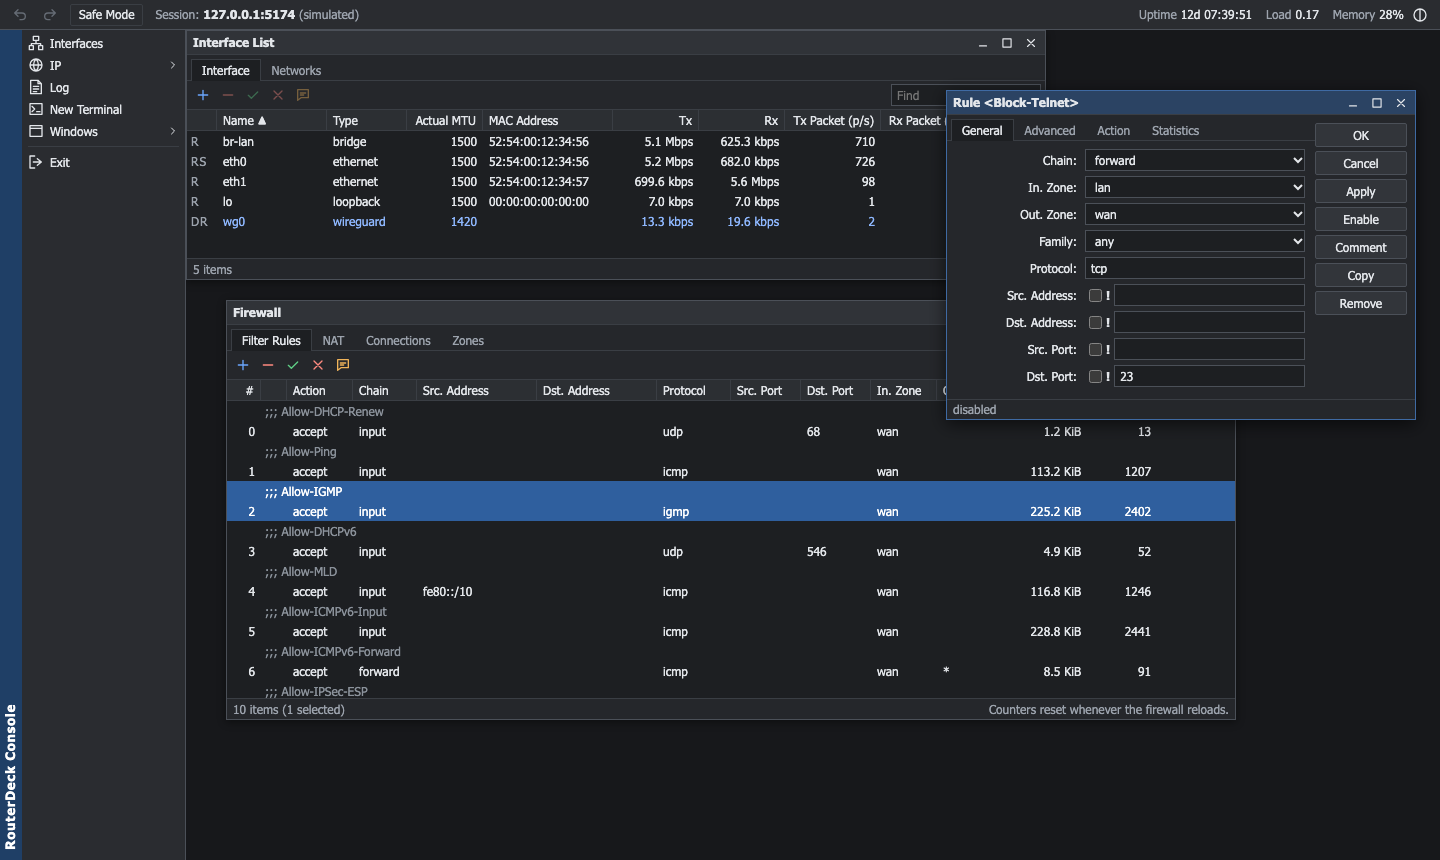
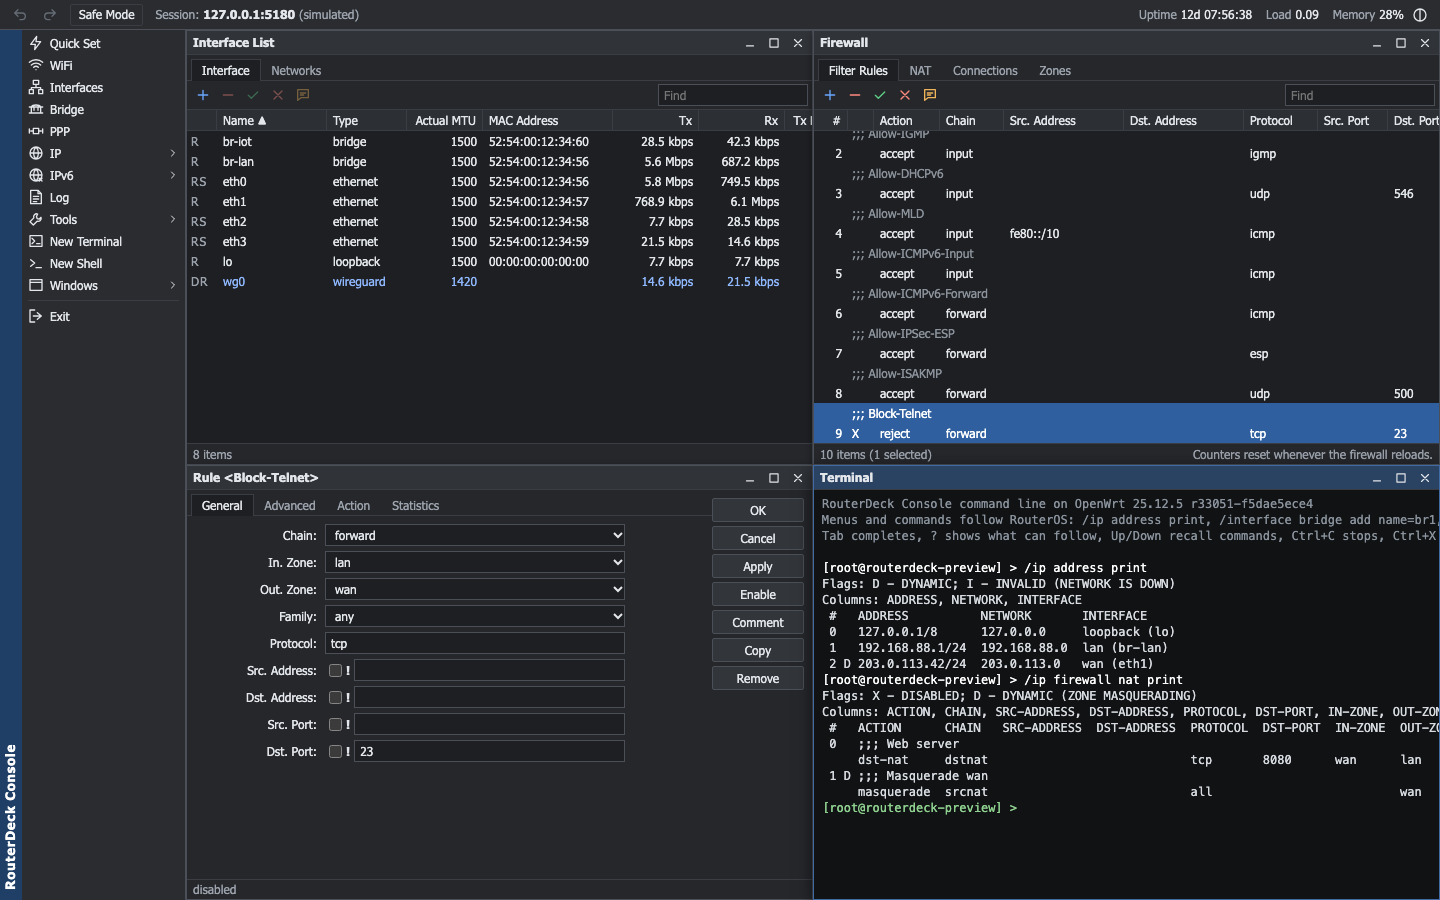
Validate the finished RouterDeck Console plan and document it
- Document Quick Set, WiFi, PPP, DNS, DHCPv6 bindings, Tools, Safe Mode
  takeover and the command line in docs/console.md (object table, command
  line reference, backend notes, limits), the architecture, both READMEs,
  the changelog and the Russian plan, which now lists what is left to check
  on real NanoPi hardware. New screenshots show the command line.
- A diagnostics job also ends when its directory disappears, i.e. when the
  package is removed and /var/run/routerdeck goes with it.
- Tests: the lifecycle test checks the diag runner is executable and that a
  running job ends with the package, and waits for procd to start the Safe
  Mode watchdog; the Quick Set LAN test works with 24.10's legacy
  ipaddr/netmask; the console login test follows its own session id, since
  sessions of earlier tests may expire during it.

Validated with SDK-built packages on OpenWrt 25.12.5 and 24.10.8: package
lifecycle, backend, editing, network, services, tools, Quick Set (with the
Safe Mode rollback after a LAN address change), CLI, shell and WiFi
(25.12 hwsim) VM tests, plus unit and browser tests.

diff --git a/docs/console.md b/docs/console.md
@@ -8,7 +8,7 @@ RouterDeck is not affiliated with MikroTik and uses none of its code or artwork.
 
 [Russian plan and status](console-plan.ru.md) · [Development](development.md) · [Architecture](architecture.md#routerdeck-console)
 
-![Interface list, firewall rules and a rule window in RouterDeck Console](screenshots/console-light.png)
+![Interface list, firewall rules, a rule window and the command line in RouterDeck Console](screenshots/console-light.png)
 
 Dark theme: [screenshot](screenshots/console-dark.png). Both show the simulated router of the development preview.
 
@@ -33,15 +33,30 @@ Dark theme: [screenshot](screenshots/console-dark.png). Both show the simulated 
   the change, reload the affected service and record it. There is no
   separate *Save & Apply* step.
 - **Undo / Redo** (toolbar, Ctrl+Z / Ctrl+Shift+Z) step through the last 100
-  changes. A change made outside the console (LuCI, the CLI) blocks undoing
+  changes. A change made outside the console (LuCI, `uci` in a shell) blocks undoing
   across it instead of overwriting it.
-- **Safe Mode** (toolbar). While it is on, the router undoes every change made
-  since you switched it on if this console stops answering for 120 seconds —
-  for example after a change cut your own connection. Clicking it again keeps
-  the changes; *Undo Safe Mode changes* restores the snapshot immediately.
-  After 100 changes Safe Mode ends and keeps them.
-- **Terminal.** *New Terminal* (Alt+T) embeds the router's shell through
-  [ttyd](https://github.com/tsl0922/ttyd), which asks for its own login.
+- **Safe Mode** (toolbar, or Ctrl+X in the command line). While it is on, the
+  router undoes every change made since you switched it on if this console
+  stops answering for 120 seconds — for example after a change cut your own
+  connection. Clicking it again keeps the changes; *Undo Safe Mode changes*
+  restores the snapshot immediately. After 100 changes Safe Mode ends and keeps
+  them. Another session (a new tab, or the console at a new address) sees who
+  holds Safe Mode and can *Take over Safe Mode* to keep protecting the changes,
+  or *Undo its changes* at once.
+- **Quick Set** (first menu item) puts the Internet connection (DHCP, static
+  or PPPoE) and NAT, the LAN address with its DHCP range, the WiFi name,
+  password and on/off, and the router identity on one form. Everything edited
+  is one change and one Undo step. A new LAN address moves the console: turn on
+  Safe Mode first, then open the new address and take Safe Mode over to keep
+  the change — otherwise it is undone after two minutes.
+- **Tools.** *Ping* lists every request, lost ones included, with loss and
+  min/avg/max; *Traceroute* probes every hop once per round, like mtr, and keeps
+  loss, last, average, best, worst and deviation per hop; *Torch* shows Tx/Rx
+  rates per connection on a chosen device, filtered by protocol, addresses and
+  port and grouped by the fields you collect.
+- **Terminal.** *New Terminal* (Alt+T) is a command line in the RouterOS style
+  (see [Command line](#command-line)). *New Shell* embeds the router's shell
+  through [ttyd](https://github.com/tsl0922/ttyd), which asks for its own login.
 
 ## Windows and OpenWrt objects
 
@@ -62,6 +77,16 @@ Dark theme: [screenshot](screenshots/console-dark.png). Both show the simulated 
 | IPv6 ▸ Routes | kernel IPv6 routes and `route6` sections | X, D, A, C, S | Source-specific routes show their source prefix |
 | IP ▸ DHCP Server ▸ DHCP | `dhcp` sections | X ignored | Address pool from the network's first address |
 | IP ▸ DHCP Server ▸ Leases | active DHCPv4 leases and `host` sections | X disabled, D dynamic | *Make Static* reserves a dynamic lease. A lease does not prove a client is online |
+| IP ▸ DHCP Server ▸ DHCPv6 Bindings | odhcpd's DHCPv6 leases and `host` sections with a DUID | X, D | *Make Static* stores the DUID and a host ID, so the client keeps its address suffix |
+| IP ▸ DNS ▸ Settings | the `dnsmasq` section | — | Servers, dynamic servers from the networks, remote requests, cache, local domain, rebind protection, query log |
+| IP ▸ DNS ▸ Static | `domain` (A/AAAA) and `cname` sections | X disabled | Answered by dnsmasq at once |
+| WiFi ▸ WiFi Interfaces | `wifi-iface` sections and runtime state (`luci-rpc getWirelessDevices`, iwinfo) | R running, X disabled | Access points and stations: SSID, radio, networks, security and passphrase, hidden SSID, client isolation |
+| WiFi ▸ Radios | `wifi-device` sections | X disabled | Band, channel, width, country, Tx power |
+| WiFi ▸ Registration | iwinfo association lists | — | Connected clients with signal, rates, uptime and DHCP host names |
+| PPP | `interface` sections with a PPP protocol | R connected, X disabled | PPPoE and other PPP clients: user, password, service, AC, peer DNS, default route, keepalive, MTU, zone |
+| Quick Set | `wan` and `lan` networks, their DHCP server and zone, LAN access points, `system` | — | One change for everything edited; see above |
+| Tools ▸ Ping, Traceroute | `ping` and `traceroute` jobs run by `/usr/libexec/routerdeck/diag` | — | Run outside rpcd; end when stopped, finished, unread for 15 seconds, or after an hour |
+| Tools ▸ Torch | `/proc/net/nf_conntrack` every second | — | Rates from byte counters of tracked connections, oriented to the chosen device by the routing table |
 | Log | logd (`log read`), `logread` fallback | — | Last 1000 lines, follows new entries |
 
 Comments on routes, networks, devices, DHCP servers and static leases are
@@ -79,9 +104,49 @@ stored as `option comment`, which netifd and dnsmasq ignore.
 | Arrows, Shift+arrows, Ctrl+A | Move and extend the selection |
 | Esc, F4 | Close the window |
 | F6 / Shift+F6 | Next / previous window |
-| Alt+T | New terminal |
+| Alt+T | New terminal (command line) |
 | Ctrl+Z / Ctrl+Shift+Z | Undo / redo |
 | Window title + arrows / Shift+arrows | Move / resize the window |
+
+## Command line
+
+*New Terminal* opens a command line that follows RouterOS: menus, then a
+command, then `name=value` properties. It works on the same objects as the
+windows, so every command is one change with one Undo step, and the property
+names come from the form labels (*Src. Address* is `src-address`).
+
+```
+[root@OpenWrt] > /ip firewall filter print where protocol=udp
+[root@OpenWrt] > /ip firewall filter add chain=input in-zone=wan protocol=tcp dst-port=8443 action=accept comment=web
+[root@OpenWrt] > /ip address
+[root@OpenWrt] /ip/address> add address=10.9.0.1/24 interface=lan
+[root@OpenWrt] /ip/address> /interface bridge vlan print detail
+[root@OpenWrt] > /ip dhcp-server lease make-static [find host-name=nas]
+[root@OpenWrt] > /ping 192.0.2.1 count=4
+[root@OpenWrt] > /export
+```
+
+- Menus: `/interface` (`bridge`, `bridge port`, `bridge vlan`, `network`,
+  `pppoe-client`, `wifi`, `wifi radio`, `wifi registration-table`), `/ip`
+  (`address`, `route`, `firewall filter|nat|connection|zone`, `dhcp-server`,
+  `dhcp-server lease`, `dns`, `dns static`), `/ipv6` (`address`, `route`,
+  `dhcp-server binding`), `/log`, `/system` (`identity`, `resource`,
+  `history`) and `/tool` (`traceroute`, `torch`). `/ip address` and
+  `/ip/address` are the same; `..` goes up, `/` to the top; any unique
+  abbreviation works (`/ip fi f pr`).
+- Commands: `print` (`detail`, `count-only`, `where name=value`, `!=`, `~regex`,
+  `disabled`, `!dynamic`), `find`, `add`, `set`, `remove`, `enable`, `disable`,
+  `comment` and object tools such as `make-static`. Items are named by the
+  number from the last `print` (a filtered print keeps the full numbers), by
+  name, or with `[find ...]`. `comment=` and `disabled=` work with `add` and
+  `set`.
+- `export` prints a menu and everything below it as commands; passwords and
+  keys appear only with `export show-sensitive`.
+- `/ping` and `/tool traceroute` (`count`, `size`, `interval`, `max-hops`,
+  `protocol`) stream results until done or Ctrl+C. `/undo`, `/redo`, `/quit`.
+- Tab completes menus, commands, properties and their values; `?` lists what
+  can follow. Up/Down recall earlier commands (kept in this browser), Ctrl+L
+  clears, Ctrl+X toggles Safe Mode, and the prompt shows `<SAFE>` while it is on.
 
 ## Installation
 
@@ -96,10 +161,10 @@ opkg install /tmp/routerdeck-console_0.1.0-r1_all.ipk
 ```
 
 Open `http://<router>/routerdeck/` and log in with a router account (root by
-default). The package depends on rpcd, its ucode and luci-rpc modules, the
-ucode fs/ubus/uci modules, uhttpd with `/ubus`, and firewall4; standard
-OpenWrt images with LuCI already have all of them. For the terminal, install
-ttyd (`apk add ttyd` or `opkg install ttyd`).
+default). The package depends on rpcd, its ucode, luci-rpc and iwinfo modules,
+the ucode fs/ubus/uci modules, uhttpd with `/ubus`, and firewall4; standard
+OpenWrt images with LuCI already have all of them. For *New Shell*, install
+ttyd (`apk add ttyd` or `opkg install ttyd`); PPPoE needs `ppp-mod-pppoe`.
 
 Removing the package (`apk del routerdeck-console` / `opkg remove
 routerdeck-console`) stops the Safe Mode watchdog, deletes the runtime state
@@ -108,31 +173,38 @@ in `/var/run/routerdeck` and leaves `/etc/config` as it is.
 ## How changes are made
 
 Every action is one call to the `routerdeck` rpcd object (`apply`, `undo`,
-`redo`, `safemode`). The plugin:
+`redo`, `safemode`). The plugin changes only `network`, `firewall`, `dhcp`,
+`wireless` and `system`, and:
 
 1. refuses to run while LuCI is waiting to confirm an *apply with rollback*,
    so the two rollbacks cannot overwrite each other;
 2. stages the operations in a private UCI delta directory and commits only
-   them, never other sessions' or the CLI's pending changes;
+   them, never other sessions' or a shell's pending `uci` changes;
 3. runs `fw4 check` before and after firewall changes and rejects a change that
    makes fw4 skip a section as invalid (fw4 itself would only warn);
 4. announces `config.change` so procd reloads the affected services;
 5. keeps the previous and new file contents for Undo and Redo in
    `/var/run/routerdeck` (cleared at reboot).
 
-Safe Mode stores a snapshot of `network`, `firewall` and `dhcp`. A procd
-service (`routerdeck-safemode`), separate from rpcd, watches the console's
-heartbeats and restores the snapshot, reloads services and writes a syslog line
-when they stop. Changes made from LuCI or the CLI while Safe Mode is active
-are undone with it, as in RouterOS.
+Safe Mode stores a snapshot of those five configurations. A procd service
+(`routerdeck-safemode`), separate from rpcd, watches the console's heartbeats
+and restores the snapshot, reloads services and writes a syslog line when they
+stop. Changes made from LuCI or the shell while Safe Mode is active are undone
+with it, as in RouterOS. A takeover moves Safe Mode to the new session and is
+logged too.
+
+Ping and Traceroute run as jobs: rpcd handles one call at a time, so a probe
+waiting for its timeout inside the plugin would stall every window. The
+plugin's `diag` method starts `/usr/libexec/routerdeck/diag` in the
+background, reads its results and stops it; at most eight jobs run at once.
 
 ## Access and security
 
 `/usr/share/rpcd/acl.d/routerdeck-console.json` grants the
 `routerdeck-console` group read access to the status objects and UCI configs the
-windows show, and write access to the plugin's `apply`, `undo`, `redo` and
-`safemode`. The plugin runs as root inside rpcd and only ever changes
-`network`, `firewall` and `dhcp`. Users with `read '*'` / `write '*'` in
+windows show (including iwinfo and the diagnostics jobs), and write access to
+the plugin's `apply`, `undo`, `redo` and `safemode`. The plugin runs as root
+inside rpcd; diagnostics accept only plain host names and addresses. Users with `read '*'` / `write '*'` in
 `/etc/config/rpcd` (root by default) receive the group automatically. Serve
 the router over HTTPS where untrusted users share the network; ttyd then also
 needs SSL, or the browser blocks the embedded terminal.
@@ -140,14 +212,21 @@ needs SSL, or the browser blocks the embedded terminal.
 ## Known limitations
 
 - Desktop browsers only; on narrow screens every window fills the work area.
-- Wireless, PPP, DNS, Quick Set, Tools (Ping, Torch), DHCPv6 leases and a
-  RouterOS-style CLI are not implemented.
+- Torch measures connections tracked by the firewall, not packets on the wire:
+  bridged traffic and anything without connection tracking is not shown, and
+  the device a connection belongs to comes from the routing table.
+- Quick Set edits OpenWrt's default layout (networks named `wan` and `lan`);
+  other layouts are edited in the individual windows.
+- The command line covers the objects the windows show. It has no scripting
+  (`:put`, `:foreach`, variables), and `export` is not a full backup: options
+  the windows do not model are not exported (use `sysupgrade -b` for that).
+- PPP is the client side only; there is no PPP server or secrets list.
 - fw4 resets rule counters whenever the firewall reloads; rules sharing a name
   show no counters, because nftables reports them under that one name.
 - Safe Mode rolls back after 120 seconds without heartbeats, not after the TCP
   timeout RouterOS uses.
 - ttyd binds to the LAN device; after that network is reconfigured it can stop
-  accepting connections until `/etc/init.d/ttyd restart`. The Terminal window
+  accepting connections until `/etc/init.d/ttyd restart`. The Shell window
   says so and links to ttyd directly.
 - Third-party UCI sections the windows do not model are left untouched and
   not shown.

diff --git a/README.ru.md b/README.ru.md
@@ -30,9 +30,12 @@
   закладками. Отдельного пункта Workspace больше нет, окна входят в тему.
 - Экспериментальный **`routerdeck-console`**, отдельный от LuCI: оконная
   консоль по адресу `/routerdeck/` по образцу настольных утилит для роутеров,
-  которая работает с rpcd напрямую через `/ubus`. Интерфейсы, мосты и VLAN,
-  адреса и маршруты IPv4 и IPv6, firewall, DHCP и журнал — живые списки объектов. Изменения применяются сразу,
-  есть Undo/Redo и Safe Mode с автоматическим откатом, терминал через ttyd.
+  которая работает с rpcd напрямую через `/ubus`. Quick Set, WiFi, интерфейсы,
+  мосты и VLAN, PPP, адреса и маршруты IPv4 и IPv6, firewall, DHCP и DHCPv6, DNS
+  и журнал — живые списки объектов; Ping, Traceroute и Torch — инструменты.
+  Изменения применяются сразу, есть Undo/Redo и Safe Mode с автоматическим
+  откатом. New Terminal — командная строка в стиле RouterOS над теми же
+  объектами, New Shell — оболочка через ttyd.
   Подробности — в [описании консоли](docs/console.md) и [плане](docs/console-plan.ru.md).
   В сборку входит Preact (MIT).
 - Bootstrap остаётся установленным. Установка RouterDeck не меняет выбранную

diff --git a/README.md b/README.md
@@ -27,9 +27,11 @@ downloadable packages. Build current source to try them; see the
   bookmarks. Windows are now built into the theme, without a separate menu page.
 - **`routerdeck-console`**, experimental and separate from LuCI: a windowed
   console at `/routerdeck/`, modelled on desktop router tools, that talks to rpcd
-  over `/ubus`. Interfaces, bridges and VLANs, IPv4 and IPv6 addresses and routes,
-  firewall, DHCP and the log are live object lists; changes apply at once with Undo/Redo and Safe Mode rollback; a
-  terminal uses ttyd. See [RouterDeck Console](docs/console.md). Its bundle
+  over `/ubus`. Quick Set, WiFi, interfaces, bridges and VLANs, PPP, IPv4 and IPv6
+  addresses and routes, firewall, DHCP and DHCPv6, DNS and the log are live object
+  lists; Ping, Traceroute and Torch are tools; changes apply at once with Undo/Redo
+  and Safe Mode rollback. New Terminal is a RouterOS-style command line over the
+  same objects; New Shell uses ttyd. See [RouterDeck Console](docs/console.md). Its bundle
   includes Preact (MIT).
 - Bootstrap remains installed. Installing RouterDeck registers it without
   changing the current design. Removing the selected theme restores Bootstrap.

diff --git a/CHANGELOG.md b/CHANGELOG.md
@@ -26,6 +26,19 @@
   their pool and advertisement) and IPv6 > Routes (kernel and `route6`), and a
   Bridge window with bridges, ports (PVID, tagged VLANs) and bridge VLANs.
 - Accept UCI section types with dashes such as `bridge-vlan` in the plugin.
+- Add IP > DNS (dnsmasq settings and static A/AAAA/CNAME entries), DHCPv6
+  bindings with Make Static, and Safe Mode takeover by another session.
+- Add WiFi (interfaces, radios, registration table) and PPP client windows.
+- Add Tools > Ping, Traceroute and Torch; Ping and Traceroute run as jobs
+  outside rpcd so a slow probe never stalls other calls.
+- Add Quick Set: Internet connection and NAT, LAN address and DHCP range, WiFi
+  name and password, and identity as one change and one Undo step.
+- New Terminal is now a RouterOS-style command line over the window models
+  (print/find/add/set/remove/enable/disable/comment, export, ping, traceroute,
+  undo, Tab completion, `?` help, history, Ctrl+X Safe Mode); the ttyd shell
+  moved to New Shell.
+- Fix focus being taken from a field the user already typed in when a window
+  opens, and quick successive form edits overwriting each other.
 
 ### Navigation and windows
 

diff --git a/docs/architecture.md b/docs/architecture.md
@@ -168,6 +168,13 @@ be extended, and blocks all commits while armed. Safe Mode keeps its own
 snapshot; the `routerdeck-safemode` procd service restores it when the client's
 heartbeats stop, so a pending rollback survives an rpcd reload.
 
+Ping and Traceroute run as background jobs (`/usr/libexec/routerdeck/diag`)
+because rpcd handles one call at a time; the plugin's `diag` method starts,
+reads and stops them. Torch computes per-connection rates in the client from
+two connection-tracking samples. The command line (`console/src/cli`) parses
+RouterOS-style commands and runs them through the same window models, so a
+command and the matching window produce identical operations.
+
 See [RouterDeck Console](console.md) for behaviour, the object mapping and limits.
 
 ## Packaging and licensing
